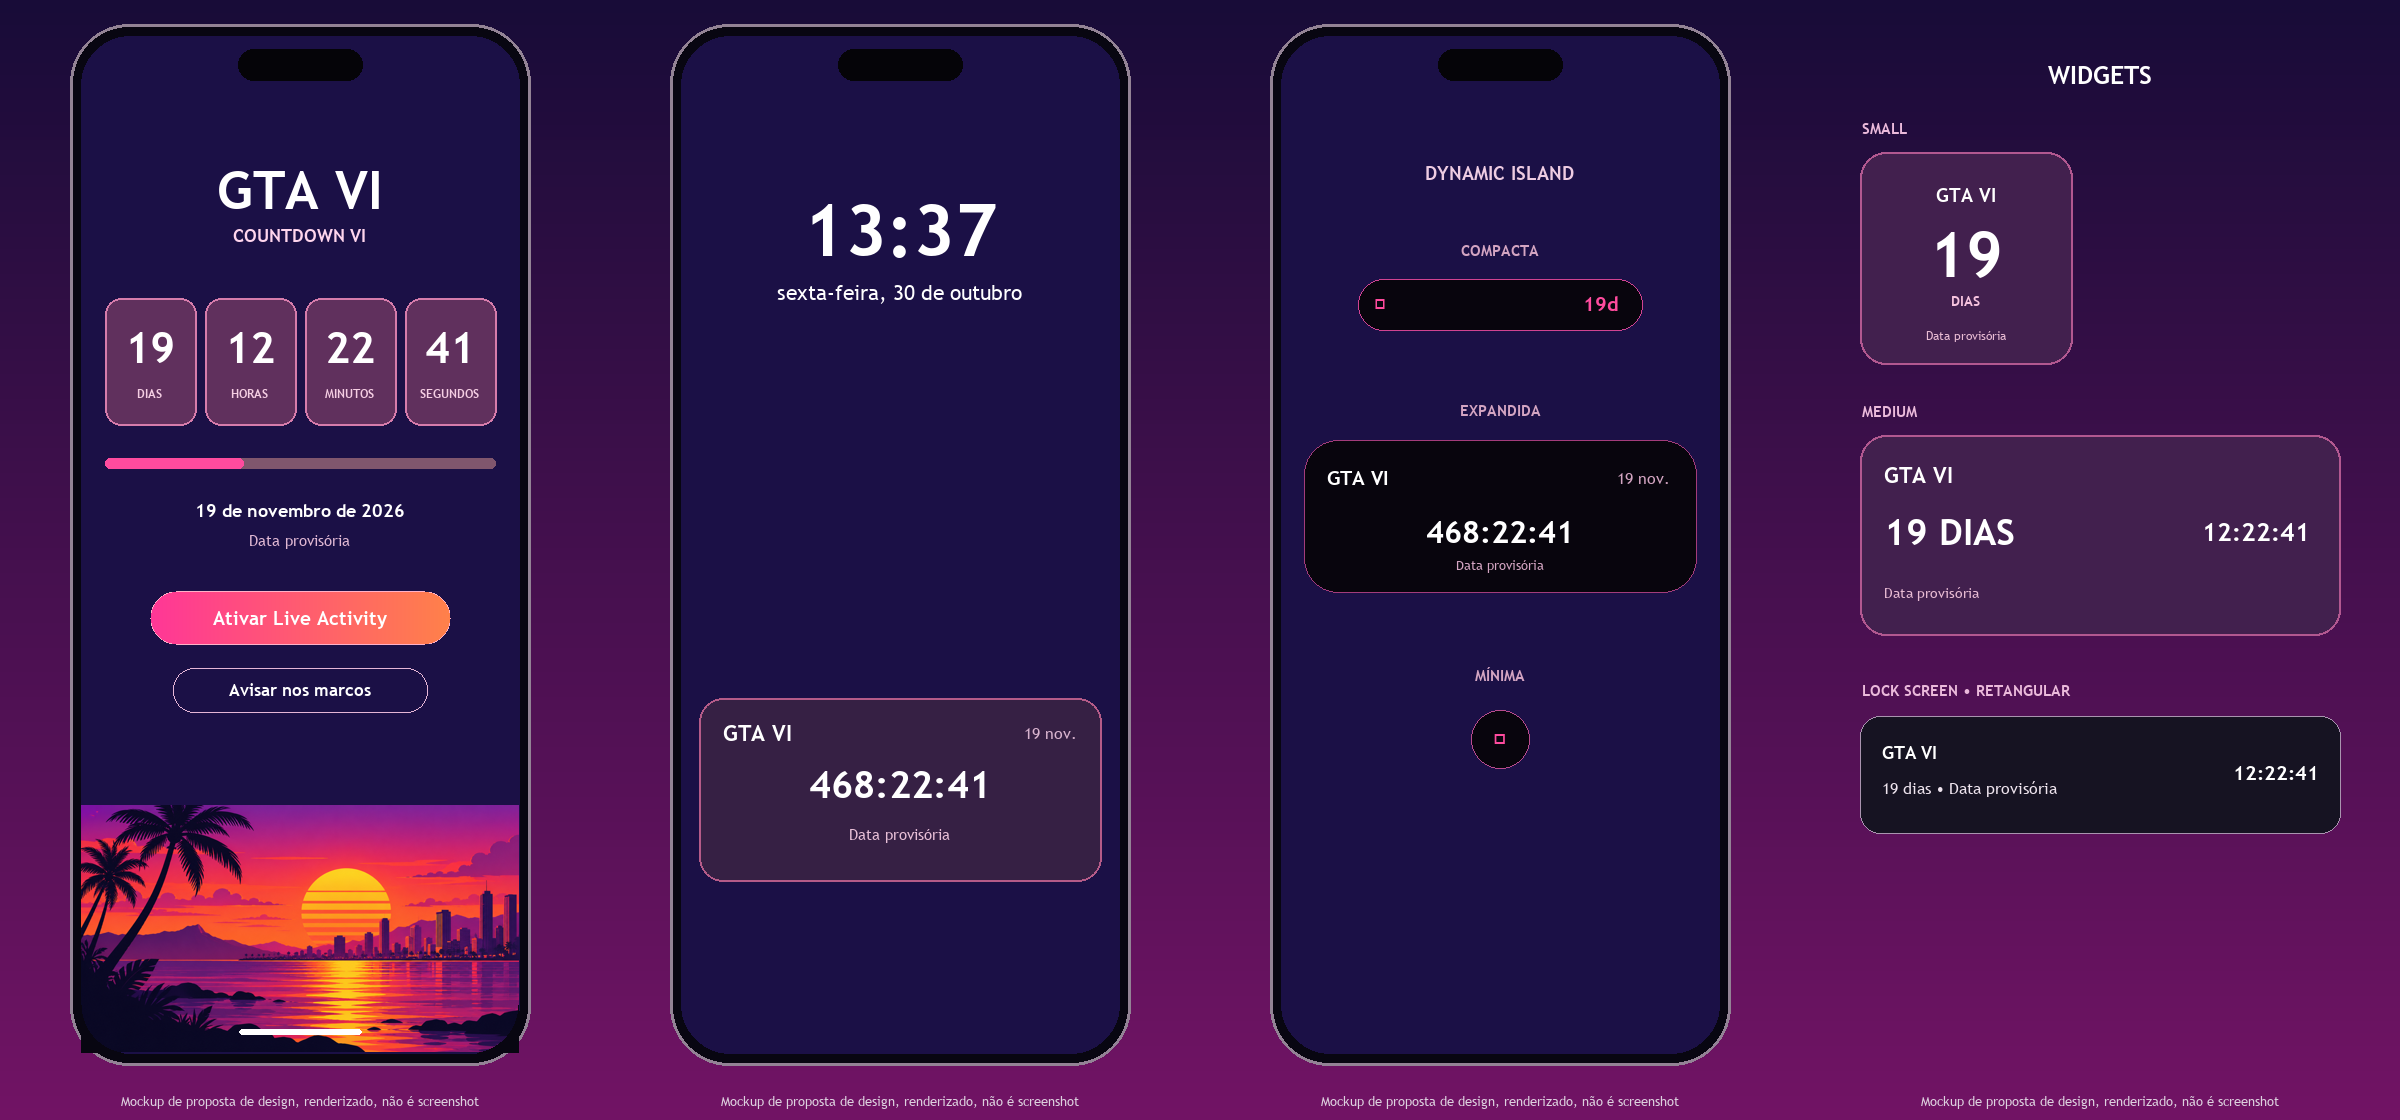
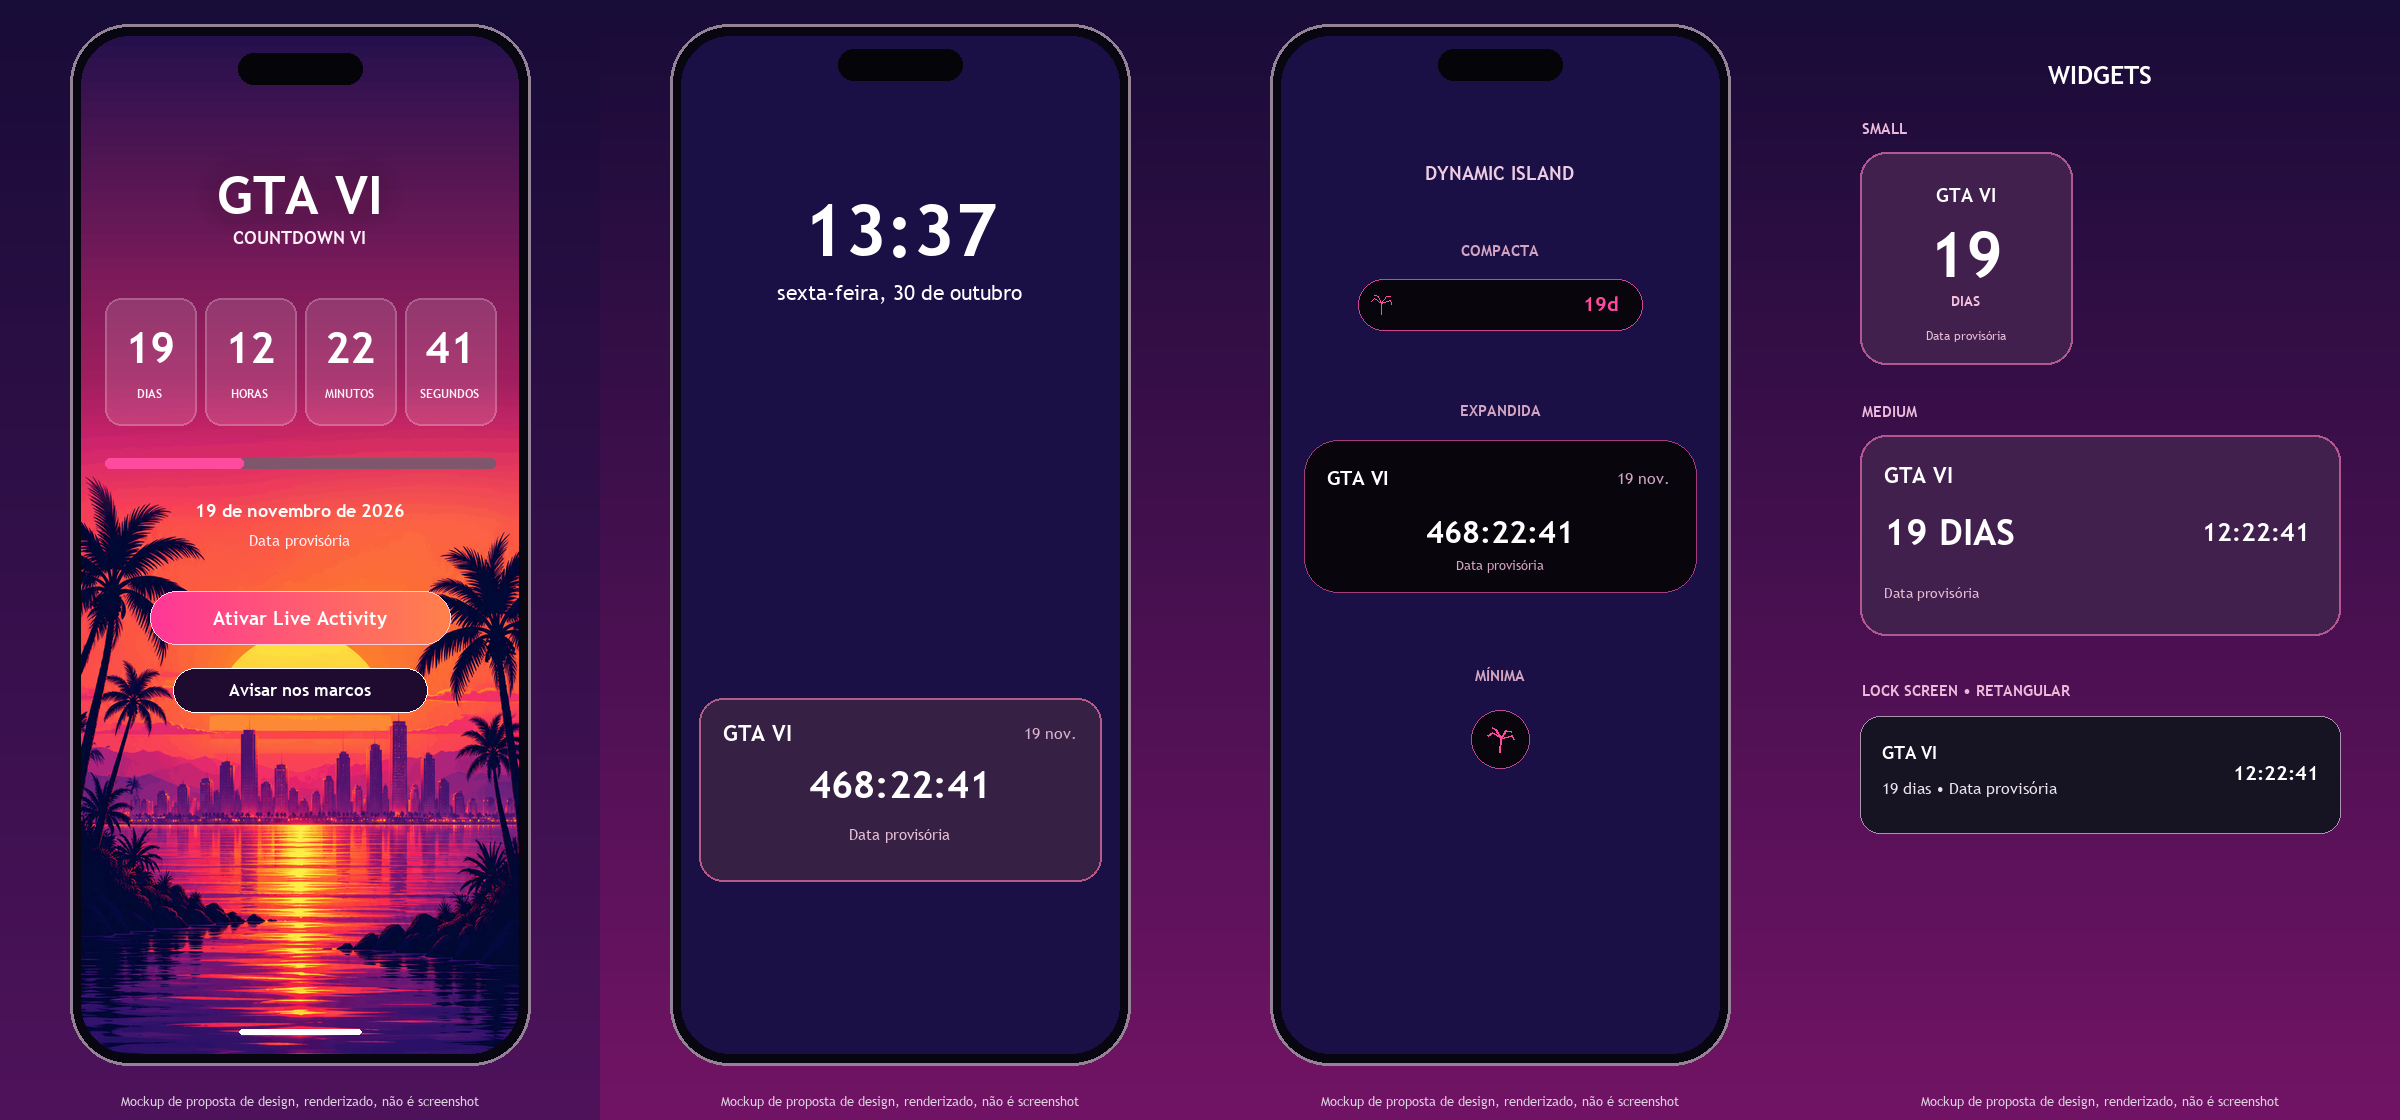
fix: refine sunset design mockups

Changed region(s): [[0.0, 0.0625, 0.25, 1.0]]

diff --git a/assets/design/DESIGN.md b/assets/design/DESIGN.md
@@ -28,16 +28,16 @@ Somente fonte de sistema iOS: `.system` com `.rounded` ou largura `.condensed` q
 
 ## Mapeamento SwiftUI
 
-Use `LinearGradient(stops:)` vertical com paradas 0 `#24104C`, 0.55 `#ED286B`, 1 `#FF8A4C`; botão com gradiente horizontal rosa/laranja. `Material.ultraThin` em `RoundedRectangle` com camada de cor e borda translúcida aproxima o vidro; material não garante um raio de blur fixo e depende do contexto. Respeitar Reduce Transparency, Dynamic Type e áreas seguras; medir legibilidade no aparelho. Renderizar a cena vetorial como recurso e preservar proporção.
+Use `LinearGradient(stops:)` vertical com paradas 0 `#24104C`, 0.55 `#ED286B`, 1 `#FF8A4C`; botão com gradiente horizontal rosa/laranja. `Material.ultraThin` em `RoundedRectangle` com camada de cor e borda translúcida aproxima o vidro; material não garante um raio de blur fixo e depende do contexto. Respeitar Reduce Transparency, Dynamic Type e áreas seguras; medir legibilidade no aparelho. Usar o fundo retrato recomendado preservando proporção; usar a cena vetorial como fallback.
 
 ## Anatomia
 
 - **Home:** título GTA VI, Countdown VI, quatro blocos (dias, horas, minutos, segundos), data e Data provisória, botões e cena inferior. **PROPOSTA:** barra limitada aos últimos 30 dias; fração `clamp(1 - segundosRestantes / (30 * 86400), 0, 1)`. **PROPOSTA:** botão Ativar Live Activity quando não houver activity ativa.
 - **Live Activity na Lock Screen:** título e data; timer automaticamente atualizado, com data provisória, sobre fundo escuro. Layout sujeito ao sistema.
 - **Dynamic Island compacta:** símbolo de palmeira abstrato e **PROPOSTA** `19d` estático, calculado ao criar/atualizar activity; não é timer automático e pode ficar defasado.
-- **Expandida:** título, data abreviada, timer e indicação provisória quando houver espaço. **Mínima:** ícone de timer. O sistema determina dimensões e composição.
+- **Expandida:** título, data abreviada, timer e indicação provisória quando houver espaço. **Mínima:** glifo de palmeira proposto. O sistema determina dimensões e composição.
 - **Widget comum:** small com título, dias e data provisória; medium acrescenta relógio; acessório retangular da Lock Screen usa título, dias e relógio monocromáticos. Widget e renderização efetiva dependem do iOS.
 
 ## Cena
 
-`scene-sunset.svg` é vetor original simplificado; `scene-sunset.png` é sua renderização. `concept-sunset-study.png` foi gerado por IA para estudo da cena e usado no fundo dos mockups da home; é mais detalhado que o vetor e não é screenshot. A implementação deve usar o vetor ou receber outro recurso aprovado.
+Recomenda-se `bg-sunset-portrait.png` como fundo de tela inteira do app: imagem gerada por IA, composta com degradê das paradas acima e otimizada para 1179 × 2556. `scene-sunset.svg` e `scene-sunset.png` são fallback vetorial original simplificado e sua renderização. `concept-sunset-study.png` é o estudo anterior gerado por IA. Veja `PROVENANCE.md`; nenhum recurso é screenshot.

diff --git a/assets/design/PROVENANCE.md b/assets/design/PROVENANCE.md
@@ -1,0 +1,8 @@
+# Proveniência das imagens
+
+As duas imagens foram geradas pela ferramenta OpenAI `image_gen.imagegen`; a ferramenta não informou a identificação do modelo subjacente, portanto não é possível especificá-la. A arte solicitada é original e não usa material oficial da Rockstar ou de GTA.
+
+- `concept-sunset-study.png`: estudo horizontal gerado com pedido de paisagem tropical vetorial, sol listrado, palmeiras, prédios geométricos, água e céu neon, sem texto nem marcas. Redimensionado e otimizado.
+- `bg-sunset-portrait.png`: arte vertical gerada com pedido de topo limpo em roxo, magenta e laranja e cena inferior com sol listrado, palmeiras, skyline e água, sem texto nem marcas. Composta localmente com degradê usando as paradas do DESIGN.md, redimensionada a 1179 × 2556 e quantizada para otimização.
+
+`scene-sunset.svg` foi desenhado manualmente em vetor; o PNG correspondente foi renderizado desse SVG. Os mockups são composições renderizadas, não capturas de aparelho.

diff --git a/assets/mockups/v2/README.md b/assets/mockups/v2/README.md
@@ -9,7 +9,7 @@ Cada imagem é um mockup de proposta de design, renderizado, não é screenshot.
 - `mockup-overview.png`: as quatro superfícies lado a lado.
 - `mockup-hero.png`: home em moldura para o README.
 
-Fonte renderizada: Trebuchet MS regular e bold, aproximação no Windows; o app deve usar fonte do sistema iOS, conforme DESIGN.md. A home usa estudo de cena gerado por IA; não é imagem do app em execução.
+Fonte renderizada: Trebuchet MS regular e bold, aproximação no Windows; o app deve usar fonte do sistema iOS, conforme DESIGN.md. A home e o hero usam o fundo retrato gerado por IA e composto com degradê; não são imagens do app em execução. Proveniência em `../../design/PROVENANCE.md`.
 
 Contagem congelada em 30/10/2026 às 13:37:19 UTC-03 (16:37:19 UTC): 19 dias 12:22:41; timer 468:22:41. A data configurada é provisória, 19/11/2026 às 05:00 UTC.
 
